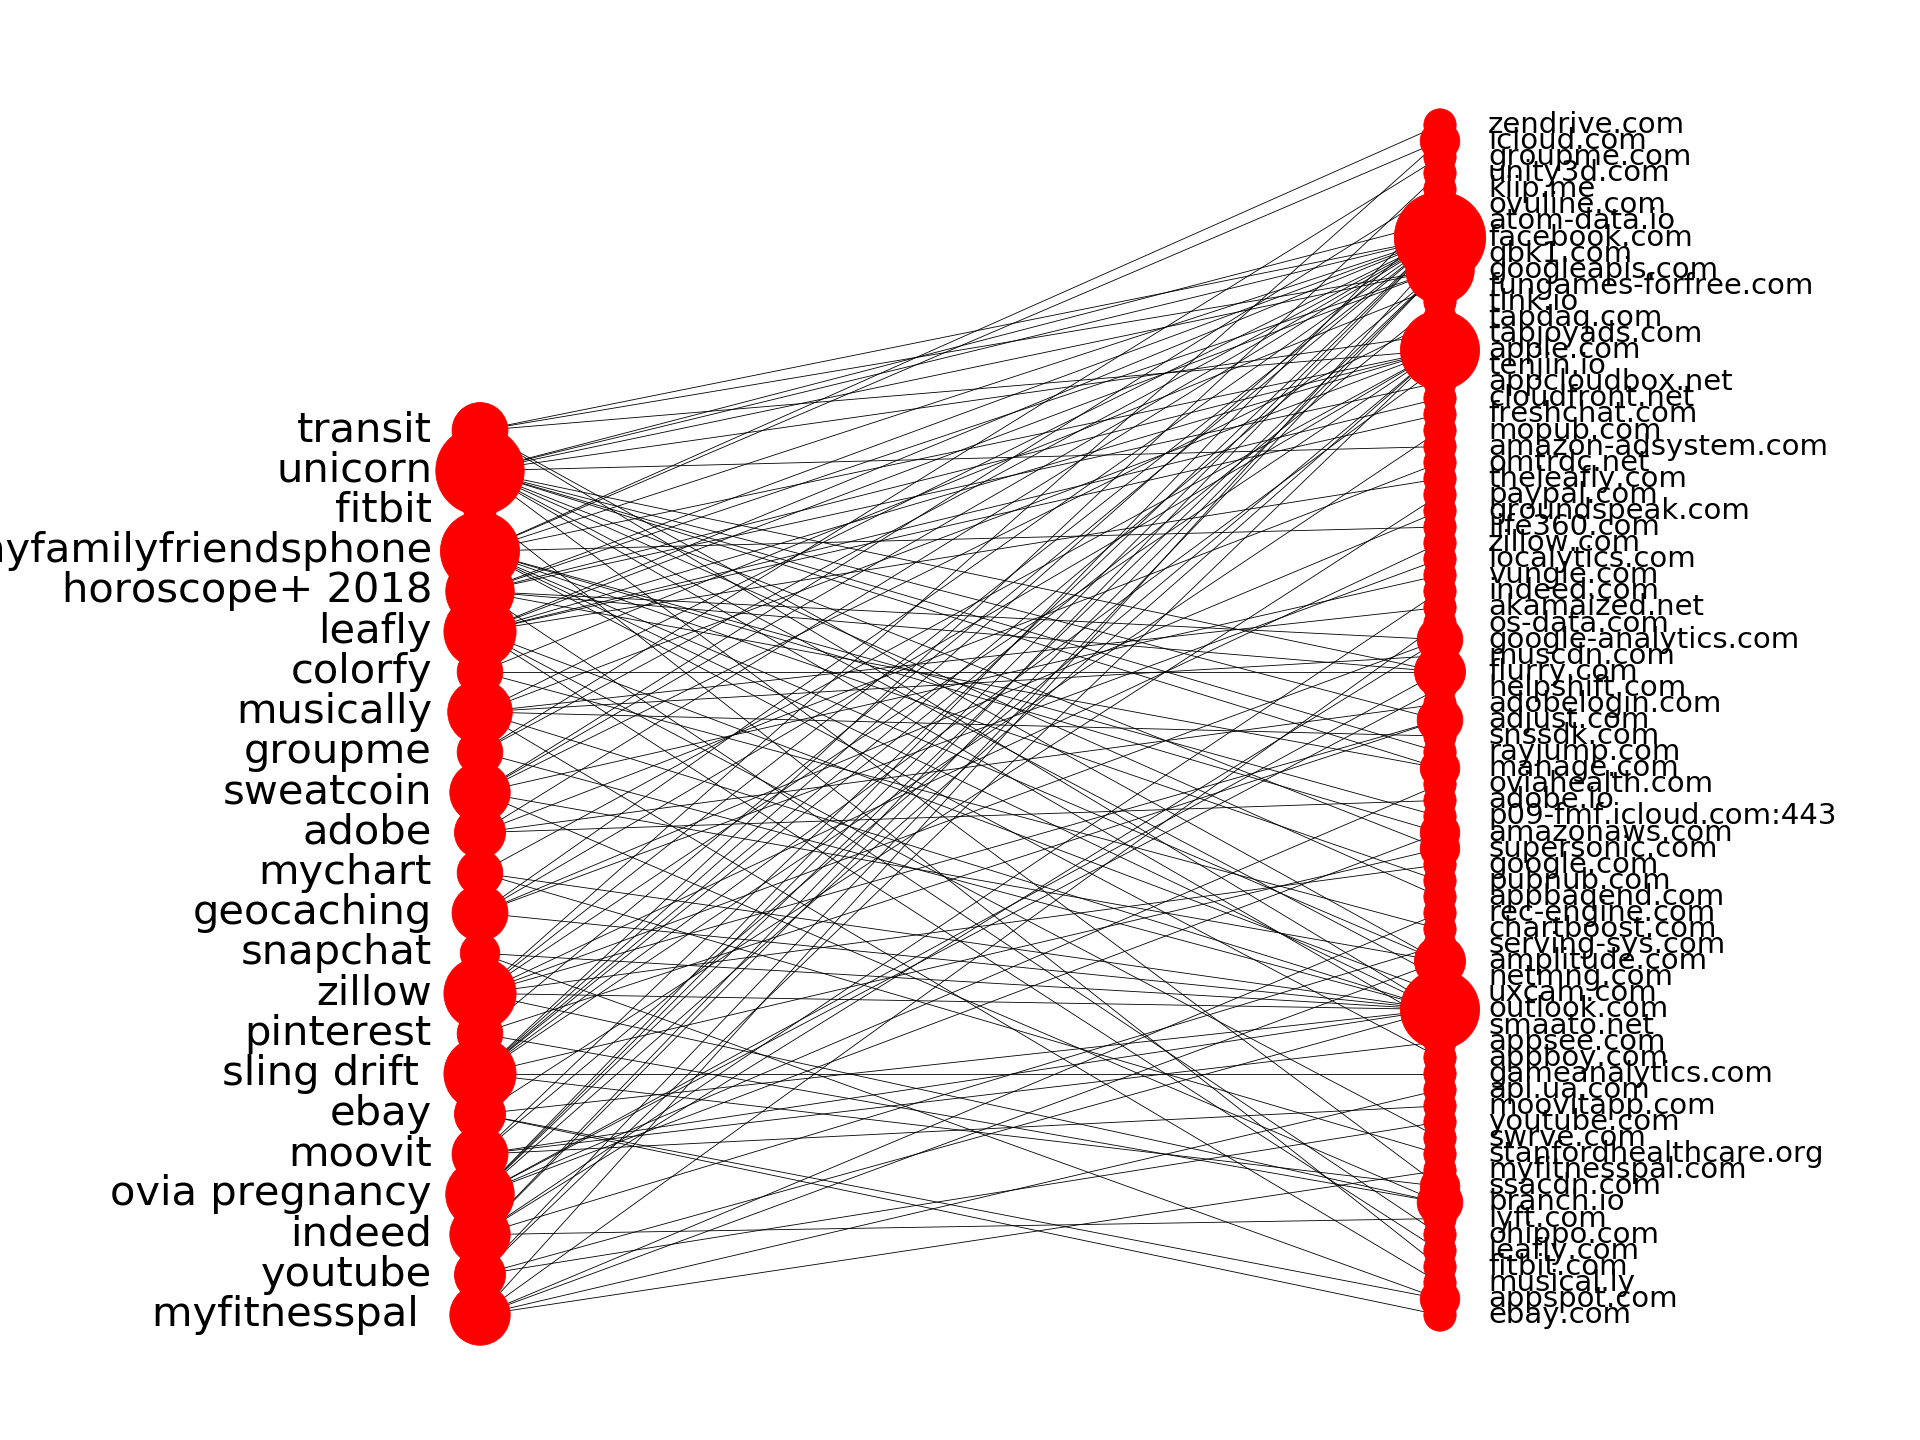
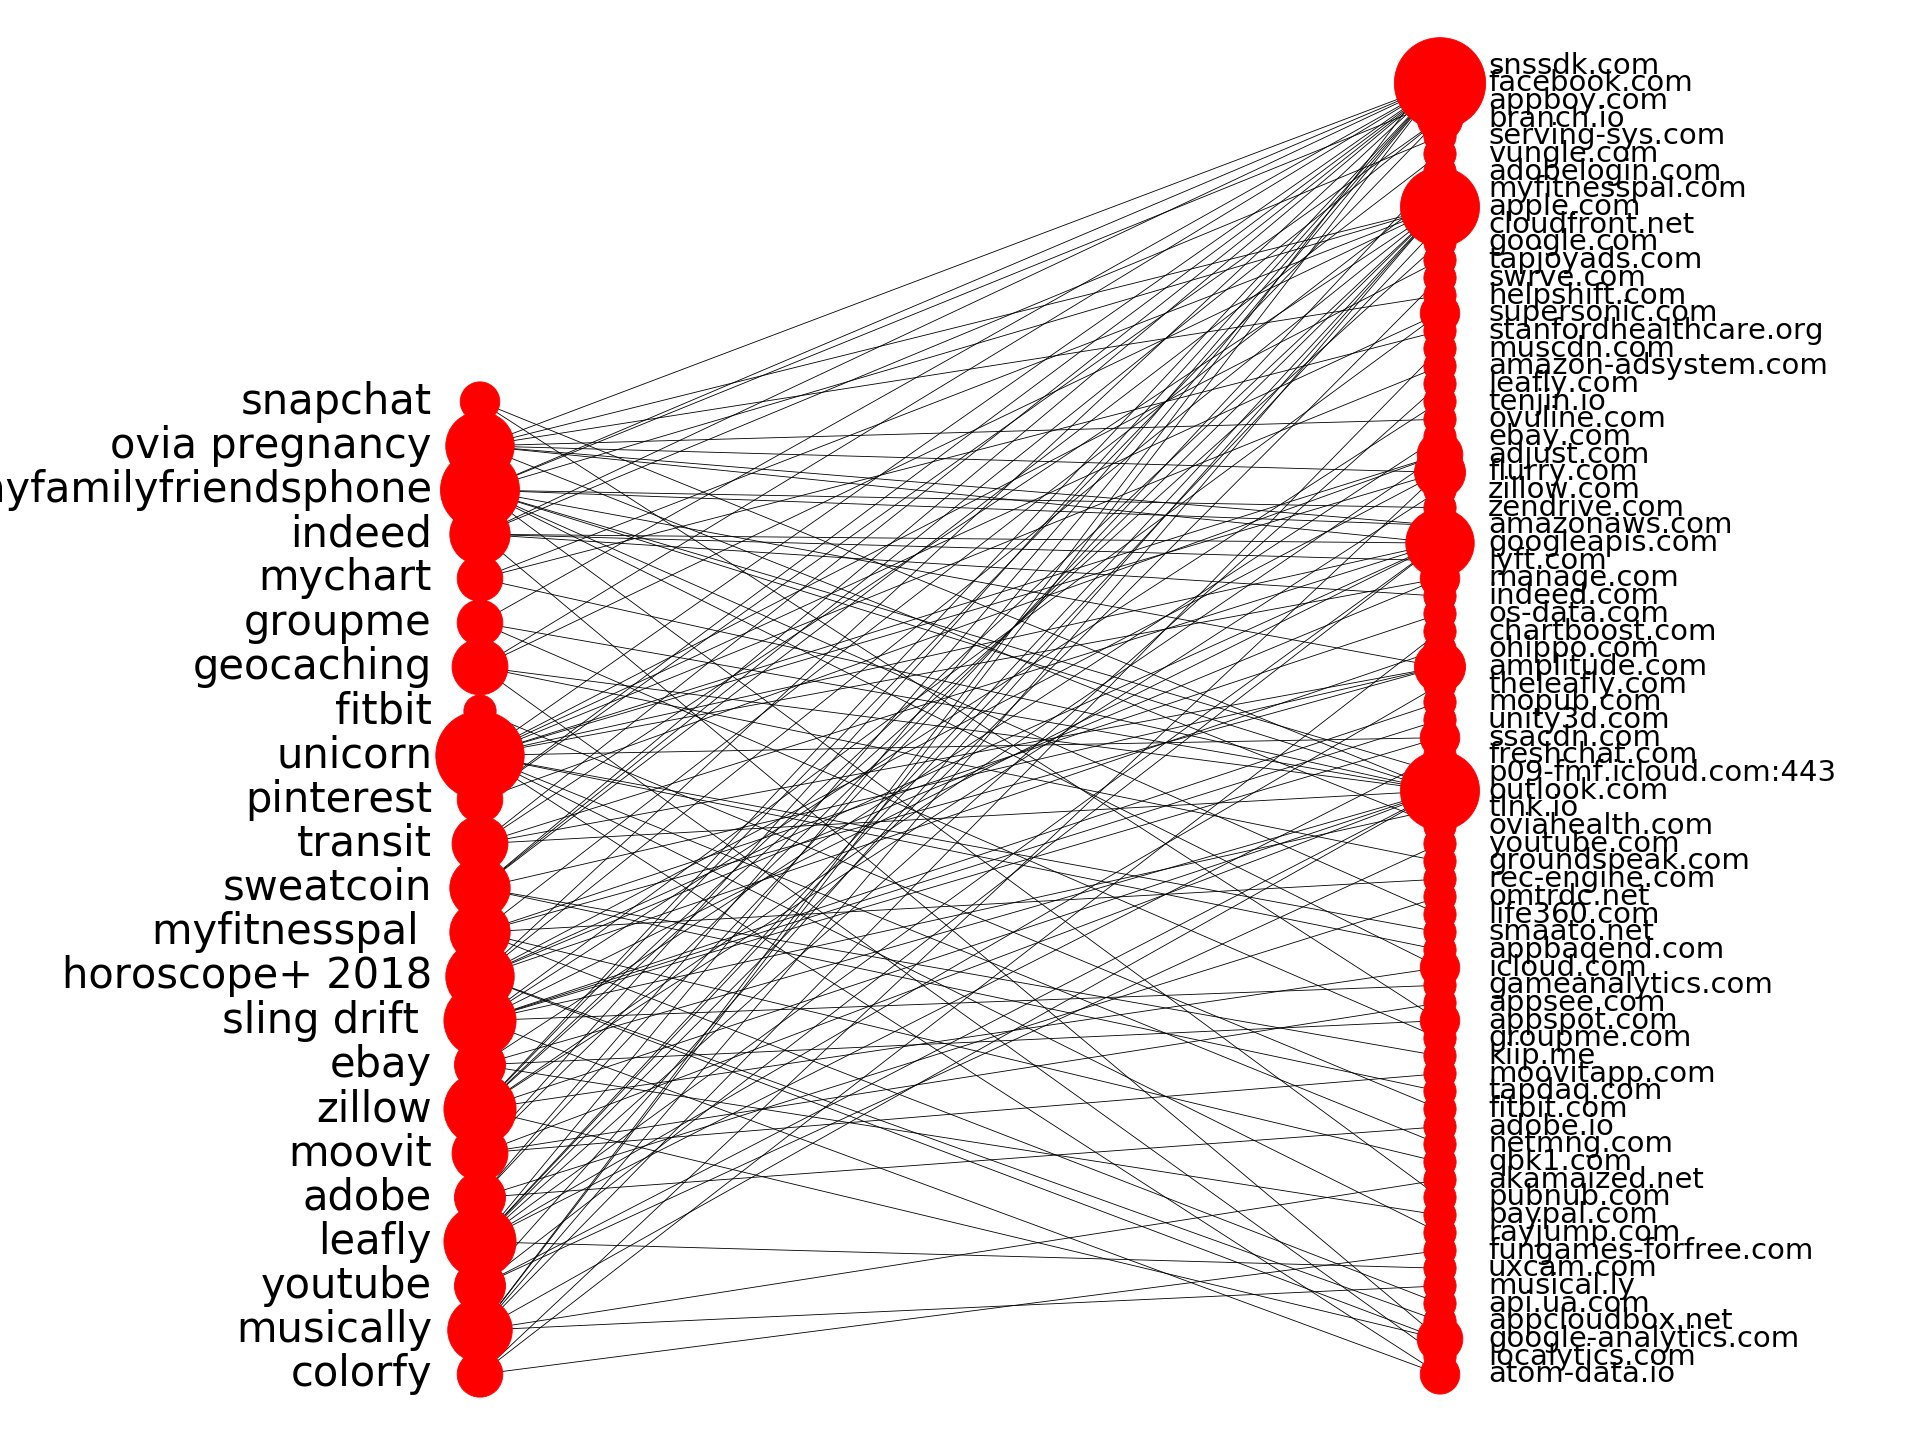
add images and update script to count category data

Changed region(s): [[0.0, 0.0312, 0.9688, 0.9688]]

diff --git a/testscript.py b/testscript.py
@@ -3,6 +3,7 @@ import os
 import re
 from collections import OrderedDict
 from collections import defaultdict
+import numpy as np
 
 import networkx as nx
 from networkx.algorithms import bipartite
@@ -14,7 +15,51 @@ emails = ['omarsolis4@gmail.com', 'sbuttinger19@gmail.com']
 pii_types = ['omar', 'solis', 'scott', 'buttinger','936-404-8305','male','650-656-0106',
 			'latitude','longitude','omarsolis4@gmail.com','sbuttinger19@gmail.com',
 			'1996-04-06','04061996','1994-12-25','12251994','9364048305','6506560106', 
-			'phone', 'email', 'zipcode', 'birthday']
+			'phone-num','phonenum', 'email', 'zipcode', 'birthday','phone_num',
+			'username']
+
+# pii categories
+email_pii = ['email','omarsolis4@gmail.com','sbuttinger19@gmail.com','gmail']
+birthday_pii = ['1996-04-06','04061996','1994-12-25','12251994','birthday']
+phone_pii = ['9364048305','6506560106','936-404-8305','650-656-0106','phone-num','phonenum',
+			 'phone_num']
+location_pii = ['latitude','longitude']
+gender_pii = ['male']
+name_pii = ['omar', 'solis', 'scott', 'buttinger','username']
+zip_pii = ['zipcode','94305','94306','94309','zip-code','zip_code']
+
+
+email_cnt = 0
+birthday_cnt = 0
+phone_cnt = 0
+location_cnt = 0
+gender_cnt = 0
+name_cnt = 0
+zip_cnt = 0
+
+
+# app categories
+
+business = ['adobe','adp','indeed']
+entertainment = ['sling drift','unicorn','colorfy']
+health_fitness = ['myfitnesspal','fitbit','sweatcoin']
+lifestyle = ['zillow','horoscope+ 2018','ebay']
+medical = ['leafly','ovia pregnancy','mychart']
+social = ['pinterest','groupme','findmyfamilyfriendsphone']
+navigation = ['geocaching','moovit','transit']
+photo_video = ['snapchat','musically','youtube']
+
+app_categories = ['business','entertainment','health & fitness','lifestyle','medical','social','navigation','photo & video']
+
+business_cnt = 0
+entertainment_cnt = 0
+health_fitness_cnt = 0
+lifestyle_cnt = 0
+medical_cnt = 0
+social_cnt = 0
+navigation_cnt = 0
+photo_video_cnt = 0
+
 
 
 third_party = ['smaato.net', 'tlnk.io', 'amazonaws.com', 'serving-sys.com', 'appbaqend.com',
@@ -93,6 +138,10 @@ for filename in os.listdir(os.curdir):
 		if inSocket:
 			continue
 
+		# outlook.com requests are caused by background email refreshes so we ignore them
+		if host == 'outlook.com':
+			continue
+
 		#have request/response fully built
 		if (inResponse and line.startswith("--EOF")) or (inRequest and line.startswith("--EOF")):
 			if host in third_party:
@@ -105,6 +154,41 @@ for filename in os.listdir(os.curdir):
 				http_count += 1
 			## do text analysis here since we have the request/response fully built
 			if any(pii_type in message_body.lower() for pii_type in pii_types):
+
+				# count PII by category
+				if any(pii in message_body.lower() for pii in email_pii):
+					email_cnt += 1
+				elif any(pii in message_body.lower() for pii in birthday_pii):
+					birthday_cnt += 1
+				elif any(pii in message_body.lower() for pii in location_pii):
+					location_cnt += 1
+				elif any(pii in message_body.lower() for pii in gender_pii):
+					gender_cnt += 1
+				elif any(pii in message_body.lower() for pii in name_pii):
+					name_cnt += 1
+				elif any(pii in message_body.lower() for pii in zip_pii):
+					zip_cnt += 1
+				elif any(pii in message_body.lower() for pii in phone_pii):
+					phone_cnt += 1
+
+				# count apps by category
+				if any(name in app_name for name in entertainment):
+					entertainment_cnt += 1
+				elif any(name in app_name for name in business):
+					business_cnt += 1
+				elif any(name in app_name for name in health_fitness):
+					health_fitness_cnt += 1
+				elif any(name in app_name for name in lifestyle):
+					lifestyle_cnt += 1
+				elif any(name in app_name for name in medical):
+					medical_cnt += 1
+				elif any(name in app_name for name in social):
+					social_cnt += 1
+				elif any(name in app_name for name in navigation):
+					navigation_cnt += 1
+				elif any(name in app_name for name in photo_video):
+					photo_video_cnt += 1
+
 
 				pii_apps.add(app_name)
 				pii_hosts.add(host)
@@ -193,15 +277,13 @@ r = set(B_sensitive) - l
 
 pos = OrderedDict({})
 
-#pos.update((node, (1, index)) for index, node in enumerate(l))
-pos.update((node, [1, i*(2.5)]) for i,node in enumerate(l))
+pos.update((node, [1, i*(2.6)]) for i,node in enumerate(l))
 pos.update((node, (2, index)) for index, node in enumerate(r))
 
 d = nx.degree(B_sensitive)
 d = [(d[node]+1) * 30 for node in B_sensitive.nodes()]
-# print(d)
 
-nx.draw(B_sensitive, pos=pos, with_labels=False, node_size=d, linewidths=.2, width=.2, font_size=6)
+nx.draw(B_sensitive, pos=pos, with_labels=False, node_size=d, linewidths=.2, width=.4, font_size=6)
 
 for node in list(pos.items()):
 	if node[0] in pii_apps:
@@ -209,14 +291,13 @@ for node in list(pos.items()):
 	else:
 		plt.text(node[1][0]+0.05,node[1][1],s=node[0],fontsize=7,verticalalignment='center')
 plt.xlim((0.5,2.5))
-plt.savefig("graph_pii.png",dpi=300)
 plt.show()
 
 	
 print('Results:')
-print(len(pii_apps))
-print(len(pii_hosts))
-print(len(pii_edges))
+print(str(len(pii_apps)) + ' apps')
+print(str(len(pii_hosts)) + ' hosts')
+print(str(len(pii_edges)) + ' edges')
 
 third_party_count_pii = 0
 for app, third_parties in app_to_third_parties_pii.items():
@@ -234,7 +315,9 @@ servers_count_pii = 0
 for app, servers in app_to_servers_pii.items():
 	servers_count_pii += len(servers)
 
-print('http count:'+ str(http_count))
+
+print('\n\nMETRICS')
+print('http count: '+ str(http_count))
 print('https count: ' + str(https_count))
 print('third party connections with pii: ' + str(third_party_count_pii))
 print('third party connections: ' + str(third_party_count))
@@ -242,3 +325,46 @@ print('server connections: ' + str(servers_count))
 print('server connections with pii ' + str(servers_count_pii))
 print('app count: ' + str(len(apps)))
 #print(pii_hosts)
+
+# plot pii categorical breakdown
+pii_counts = np.array([email_cnt,birthday_cnt,phone_cnt,location_cnt,gender_cnt,name_cnt,zip_cnt])
+total_pii = np.sum(pii_counts)
+pii_names = ['email','birthday','phone number','location','gender','name','zip code']
+indices = np.argsort(np.array(pii_counts))
+plt.barh(y=range(len(pii_counts)),width=np.array(pii_counts)[indices],tick_label=np.array(pii_names)[indices],color='red')
+plt.ylabel('PII Category')
+plt.xlabel('Number of Times Shared')
+plt.title('PII Transmissions by Category')
+plt.show()
+
+print('\n\nPII CATEGORY COUNTS')
+print('email count: ' + str(email_cnt))
+print('birthday count: ' + str(birthday_cnt))
+print('phone count: ' + str(phone_cnt))
+print('location count: ' + str(location_cnt))
+print('gender count: ' + str(gender_cnt))
+print('name count: ' + str(name_cnt))
+print('zip count: ' + str(zip_cnt))
+print('total pii: ' + str(total_pii))
+
+# plot app categorical breakdown
+app_pii_counts = np.array([business_cnt,entertainment_cnt,health_fitness_cnt,lifestyle_cnt,medical_cnt,
+						social_cnt,navigation_cnt,photo_video_cnt])
+total_app_pii = np.sum(app_pii_counts)
+indices = np.argsort(np.array(app_pii_counts))
+plt.barh(y=range(len(app_pii_counts)),width=np.array(app_pii_counts)[indices],tick_label=np.array(app_categories)[indices],color='red')
+plt.ylabel('App Category')
+plt.xlabel('Number of PII Transmissions')
+plt.title('PII Transmissions by App Category')
+plt.show()
+
+print('\n\nAPP PII CATEGORY COUNTS')
+print('business count: ' + str(business_cnt))
+print('entertainment count: ' + str(entertainment_cnt))
+print('health_fitness count: ' + str(health_fitness_cnt))
+print('lifestyle count: ' + str(lifestyle_cnt))
+print('medical count: ' + str(medical_cnt))
+print('social count: ' + str(social_cnt))
+print('navigation count: ' + str(navigation_cnt))
+print('photo_video count: ' + str(photo_video_cnt))
+print('total app pii: ' + str(total_app_pii))
